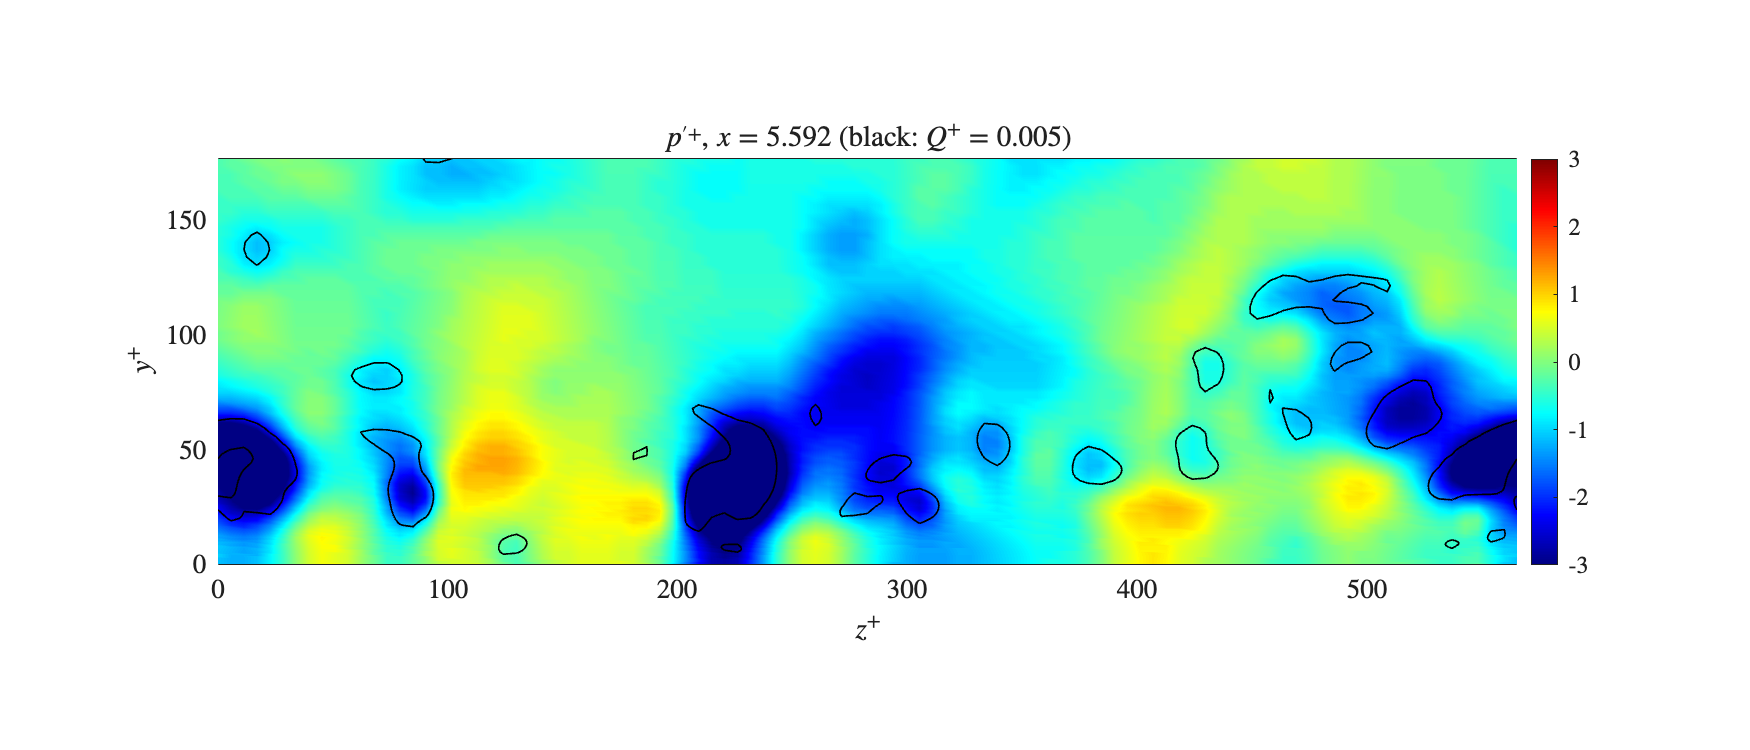
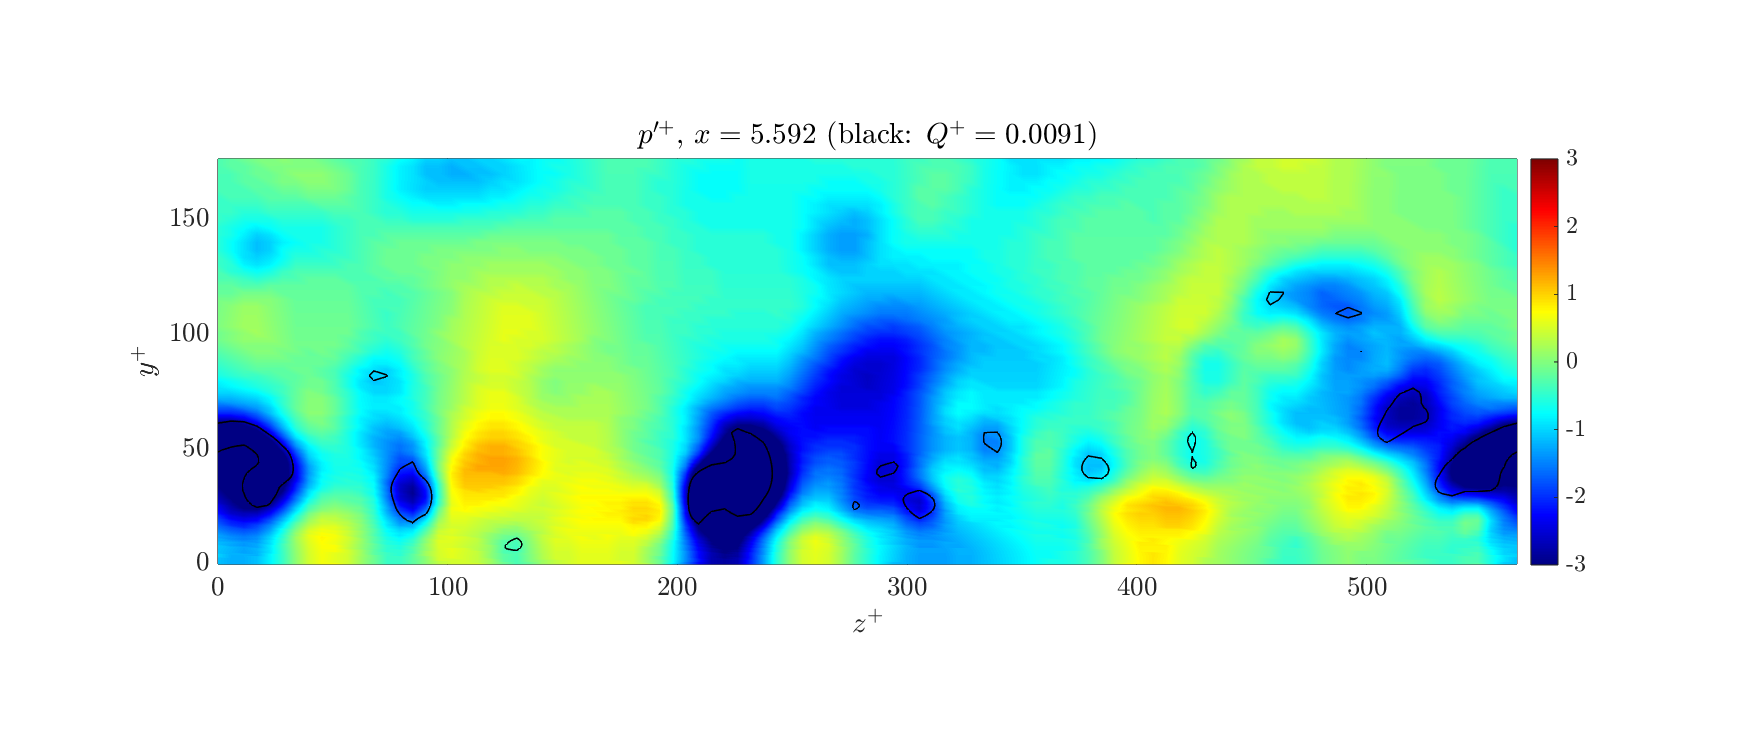
Changing figures

diff --git a/MEAM 5380/HW7/hw7.m b/MEAM 5380/HW7/hw7.m
@@ -30,24 +30,42 @@ pmean = @(f) reshape(mean(mean(f(ix,:,iz),1),3), 1, []);   % 1 x ny
 uf = u - reshape(pmean(u), 1, ny, 1);
 vf = v - reshape(pmean(v), 1, ny, 1);
 wf = w - reshape(pmean(w), 1, ny, 1);
+% Guard: if the stored p includes the mean driving gradient (dP/dx = -1 in
+% these units) it is not periodic in x, and a plane-mean subtraction leaves
+% a constant offset on every yz plane. Detect and remove the linear trend.
+dp1   = p(nx,:,:) - p(1,:,:);  pjump = mean(dp1(:));
+if abs(pjump) > 1e-6*max(abs(p(:)))
+    fprintf('p not periodic in x (jump %.3f): removing linear x trend\n', pjump);
+    p = p - reshape(pjump*(x - x(1))/(x(nx) - x(1)), [], 1, 1);
+end
 pf = p - reshape(pmean(p), 1, ny, 1);
 % u_tau = rho = 1  ->  u'+ = u', p'+ = p'
+
+% Wall-normal quadrature weights (stretched grid) for volume-weighted stats
+yv  = y(:)';
+dyw = [yv(2)-yv(1), yv(3:end)-yv(1:end-2), yv(end)-yv(end-1)]/2;   % 1 x ny
  
 %% B) u'+(x+,z+) at five wall-normal locations
 yp_target = [3, 15, 35, 50, 180];        % sublayer, buffer, log, log, centerline
 lbl = {'viscous sublayer','buffer layer','log layer','log layer','centerline'};
-figure('Name','B: u''+ planes','Position',[50 50 900 1200]);
+figure('Name','B: u''+ planes','Position',[50 50 1500 1050]);
+tl = tiledlayout(3, 2, 'TileSpacing', 'compact', 'Padding', 'compact');
 for n = 1:5
     [~, j] = min(abs(yp - yp_target(n)));
     uplane = squeeze(uf(:,j,:));                       % nx x nz
     tmp = uplane(ix,iz);  s = std(tmp(:));
-    subplot(5,1,n);
-    pcolor(xp, zp, uplane'); shading flat; daspect([1 1 1]); colorbar;
-    caxis(2.5*s*[-1 1]); colormap(jet);
-    title(sprintf('$u^{\\prime +}$ at $y^+ = %.1f$ (%s), $u^{\\prime +}_{\\mathrm{rms}} = %.2f$', yp(j), lbl{n}, s));
-    ylabel('$z^+$'); if n == 5, xlabel('$x^+$'); end
+    ax = nexttile;
+    pcolor(xp, zp, uplane'); shading flat; daspect([1 1 1]);
+    caxis(2.5*s*[-1 1]); colormap(ax, jet);
+    cb = colorbar; cb.TickLabelInterpreter = 'latex';
+    xlim([0 xp(end)]); ylim([0 zp(end)]);
+    set(ax, 'XTick', 0:200:1000, 'YTick', 0:200:600, 'FontSize', 14);
+    title(sprintf('$y^+ = %.1f$ (%s), $u^{\\prime +}_{\\mathrm{rms}} = %.2f$', yp(j), lbl{n}, s), ...
+          'Interpreter', 'latex', 'FontSize', 14);
+    xlabel('$x^+$', 'Interpreter', 'latex'); ylabel('$z^+$', 'Interpreter', 'latex');
 end
-if SAVE_FIGS, print('-dpng','-r120','figB_uplanes.png'); end
+title(tl, '$u^{\prime +}(x^+, z^+)$ at five wall-normal locations', 'Interpreter', 'latex', 'FontSize', 18);
+if SAVE_FIGS, print('-dpng','-r150','figB_uplanes.png'); end
  
 %% C, D) Low-speed streaks in the buffer layer (y+ ~ 12)
 [~, jb] = min(abs(yp - 12));
@@ -69,6 +87,7 @@ Rx = mean(real(ifft(abs(fft(U,[],1)).^2,[],1)),2);  Rx = Rx/Rx(1);
 dzp = (0:nz-2)*(zp(2)-zp(1));  dxp = (0:nx-2)*(xp(2)-xp(1));
 half = 1:floor((nz-1)/2);
 kmin = find(Rz(1:end-1) < 0 & diff(Rz) > 0, 1);       % first local minimum
+if isempty(kmin), [~, kmin] = min(Rz(half)); end
 fprintf('C) R_uu(dz+) = %s\n', mat2str(round(Rz(half)*100)/100));
 fprintf('C) First R_uu(dz) minimum at dz+ = %.0f -> streak spacing ~ %.0f wall units\n', ...
         dzp(kmin), 2*dzp(kmin));
@@ -126,6 +145,11 @@ clear A SS OO Sij Oij
 Qp = Q*nu^2;  wxp = wx*nu;  wyp = wy*nu;  wzp = wz*nu;
 fprintf('F) max|div u|/max|omega| = %.2e (sanity check)\n', max(abs(divu(:)))/max(abs(wx(:))));
  
+% Q threshold (needed in G for consistent scaling; defined per part H)
+Qrms   = sqrt(pmean(Qp.^2));                     % rms of Q+ on each y plane
+Qthr   = max(Qrms);
+fprintf('H) Q+_rms^max = %.4f (at y+ = %.1f)\n', Qthr, yp(Qrms == Qthr));
+
 %% G) yz plane at x = 5.592 (i = 90): Q+, in-plane streamlines, p'+
 i0 = 90;  fprintf('G) x(%d) = %.3f\n', i0, x(i0));
 [Zg, Yg] = meshgrid(zp, yp);                       % ny x nz
@@ -134,7 +158,7 @@ Vyz = squeeze(vf(i0,:,:));  Wyz = squeeze(wf(i0,:,:));
  
 figure('Name','G: Q+ and streamlines','Position',[50 50 1400 600]);
 pcolor(Zg, Yg, Qyz); shading interp; daspect([1 1 1]); colormap(hot); colorbar;
-caxis([0 0.02]); hold on;
+caxis([0 3*Qthr]); hold on;                        % Qmin = 0, cores emphasized
 if exist('streamslice','file') == 2
     hs = streamslice(Zg, Yg, Wyz, Vyz, 4);
 else                                               % Octave fallback
@@ -149,23 +173,24 @@ if SAVE_FIGS, print('-dpng','-r120','figG_Q_streamlines.png'); end
 figure('Name','G: p''+','Position',[50 50 1400 600]);
 pcolor(Zg, Yg, pyz); shading interp; daspect([1 1 1]); colormap(jet); colorbar;
 caxis([-3 3]); hold on;
-contour(Zg, Yg, Qyz, [0.005 0.005], 'k', 'LineWidth', 1);   % Q+ outline for reference
-xlabel('$z^+$'); ylabel('$y^+$'); title(sprintf('$p^{\\prime +}$, $x = %.3f$ (black: $Q^+ = 0.005$)', x(i0)));
+contour(Zg, Yg, Qyz, [Qthr Qthr], 'k', 'LineWidth', 1);     % Q+ = Qthr outline
+xlabel('$z^+$'); ylabel('$y^+$'); title(sprintf('$p^{\\prime +}$, $x = %.3f$ (black: $Q^+ = %.4f$)', x(i0), Qthr));
 if SAVE_FIGS, print('-dpng','-r120','figG_pressure.png'); end
-mask = Qyz > 0.005;
-fprintf('G) mean p''+ where Q+>0.005: %.2f ; elsewhere: %.2f\n', mean(pyz(mask)), mean(pyz(~mask)));
- 
+mask = Qyz > Qthr;
+fprintf('G) mean p''+ where Q+>Qthr: %.2f ; elsewhere: %.2f\n', mean(pyz(mask)), mean(pyz(~mask)));
+
 %% H) 3D: Q isosurfaces colored by omega_x, plus u'+ = -2 streaks
-Qrms   = sqrt(pmean(Qp.^2));                     % rms of Q+ on each y plane
-Qthr   = max(Qrms);
-fprintf('H) Q+_rms^max = %.4f (at y+ = %.1f)\n', Qthr, yp(Qrms == Qthr));
- 
+
 [X3, Y3, Z3] = meshgrid(x, y, z);                % ny x nx x nz
 P = @(f) permute(f, [2 1 3]);
 figure('Name','H: vortical structures');
 fv = isosurface(X3, Y3, Z3, P(Qp), Qthr, P(wxp));
 hQ = patch(fv, 'FaceColor', 'interp', 'EdgeColor', 'none');
-colormap(jet); caxis([-0.2 0.2]); cb = colorbar; ylabel(cb, '$\omega_x^+$');
+colormap(jet); caxis([-0.2 0.2]); cb = colorbar;
+cb.TickLabelInterpreter = 'latex';
+cb.Label.Interpreter = 'latex';
+cb.Label.String = '$\omega_x^+$';
+cb.Label.FontSize = 18;
 hold on;
 hU = patch(isosurface(X3, Y3, Z3, P(uf), -2), 'FaceColor', [0.6 0.6 0.6], ...
            'EdgeColor', 'none', 'FaceAlpha', 0.25);
@@ -184,18 +209,51 @@ box on; try, set(gca,'BoxStyle','full'); end   % BoxStyle is MATLAB-only
 if SAVE_FIGS, print('-dpng','-r100','figH_isosurfaces.png'); end
  
 %% I) Supporting statistics for the structure characterization
+% All statistics use unique periodic points and are weighted by the local
+% cell thickness dy, so the clustered near-wall grid does not bias them.
 core = Qp > Qthr;
-nyc  = squeeze(sum(sum(core(ix,:,iz),1),3));     % points per y plane
-fprintf('I) Fraction of Q+>thr points: y+<5: %.2f, 5-30: %.2f, 30-54: %.2f, >54: %.2f\n', ...
-    sum(nyc(yp<5))/sum(nyc), sum(nyc(yp>=5 & yp<30))/sum(nyc), ...
-    sum(nyc(yp>=30 & yp<54))/sum(nyc), sum(nyc(yp>=54))/sum(nyc));
-[~, jpk] = max(nyc ./ max(nyc));
-fprintf('I) Vortex-core volume fraction peaks at y+ = %.1f\n', yp(jpk));
-fprintf('I) Within cores: P(omega_x>0) = %.2f\n', mean(wxp(core) > 0));
+cu   = core(ix,:,iz);
+W    = repmat(reshape(dyw,1,ny,1), nx-1, 1, nz-1);
+Yp3  = repmat(reshape(yp,1,ny,1), nx-1, 1, nz-1);
+wc   = W(cu);  ycore = Yp3(cu);  Vc = sum(wc);
+band = @(lo,hi) sum(wc(ycore>=lo & ycore<hi))/Vc;
+fprintf('I) Core volume fraction by layer: y+<5: %.2f, 5-30: %.2f, 30-54: %.2f, >54: %.2f\n', ...
+    band(0,5), band(5,30), band(30,54), band(54,Inf));
+afrac = squeeze(sum(sum(cu,1),3))/((nx-1)*(nz-1));  % plane-area fraction = local volume fraction
+[~, jpk] = max(afrac);
+fprintf('I) Local core volume fraction peaks at y+ = %.1f\n', yp(jpk));
+
+wxu = wxp(ix,:,iz);  wyu = wyp(ix,:,iz);
 wzf = wzp - reshape(pmean(wzp), 1, ny, 1);       % remove mean-shear vorticity
+wzu = wzf(ix,:,iz);
+wmean = @(f) sum(wc.*f)/Vc;
+fprintf('I) Within cores: P(omega_x>0) = %.2f\n', wmean(double(wxu(cu) > 0)));
 fprintf('I) Within cores: <wx^2>:<wy^2>:<wz''^2> = %.3f : %.3f : %.3f\n', ...
-    mean(wxp(core).^2), mean(wyp(core).^2), mean(wzf(core).^2));
+    wmean(wxu(cu).^2), wmean(wyu(cu).^2), wmean(wzu(cu).^2));
+% Orientation of the core vorticity vector. Elevation (x-y plane) is
+% invariant under z -> -z, so its mean is meaningful; azimuth (x-z) flips
+% sign under the reflection, so report its magnitude.
+elev = atand(wyu(cu)./wxu(cu));  azim = atand(wzu(cu)./wxu(cu));
+fprintf('I) Core vorticity: mean elevation %.1f deg, mean |azimuth| %.1f deg\n', ...
+    wmean(elev), wmean(abs(azim)));
+
+% Object extents (Image Processing Toolbox). Objects cut by the periodic
+% boundaries are split, so extents are biased slightly low.
+if exist('bwconncomp','file')
+    CC  = bwconncomp(cu, 26);
+    dx1 = xp(2)-xp(1);  dz1 = zp(2)-zp(1);
+    ext = nan(CC.NumObjects, 3);
+    for k = 1:CC.NumObjects
+        if numel(CC.PixelIdxList{k}) < 27, continue; end
+        [ii,jj,kk] = ind2sub(size(cu), CC.PixelIdxList{k});
+        ext(k,:) = [(max(ii)-min(ii)+1)*dx1, yp(max(jj))-yp(min(jj)), (max(kk)-min(kk)+1)*dz1];
+    end
+    ext = ext(all(isfinite(ext),2),:);
+    fprintf('I) %d objects; median extent (x+, y+, z+) = (%.0f, %.0f, %.0f)\n', ...
+        size(ext,1), median(ext(:,1)), median(ext(:,2)), median(ext(:,3)));
+end
+
 figure('Name','I: vortex-core distribution');
-plot(yp, nyc/((nx-1)*(nz-1)), 'o-'); grid on;
-xlabel('$y^+$'); ylabel('volume fraction with $Q^+ > Q^+_{\mathrm{thr}}$');
+plot(yp, afrac, 'o-'); grid on;
+xlabel('$y^+$'); ylabel('local volume fraction with $Q^+ > Q^+_{\mathrm{thr}}$');
 if SAVE_FIGS, print('-dpng','-r120','figI_core_distribution.png'); end
